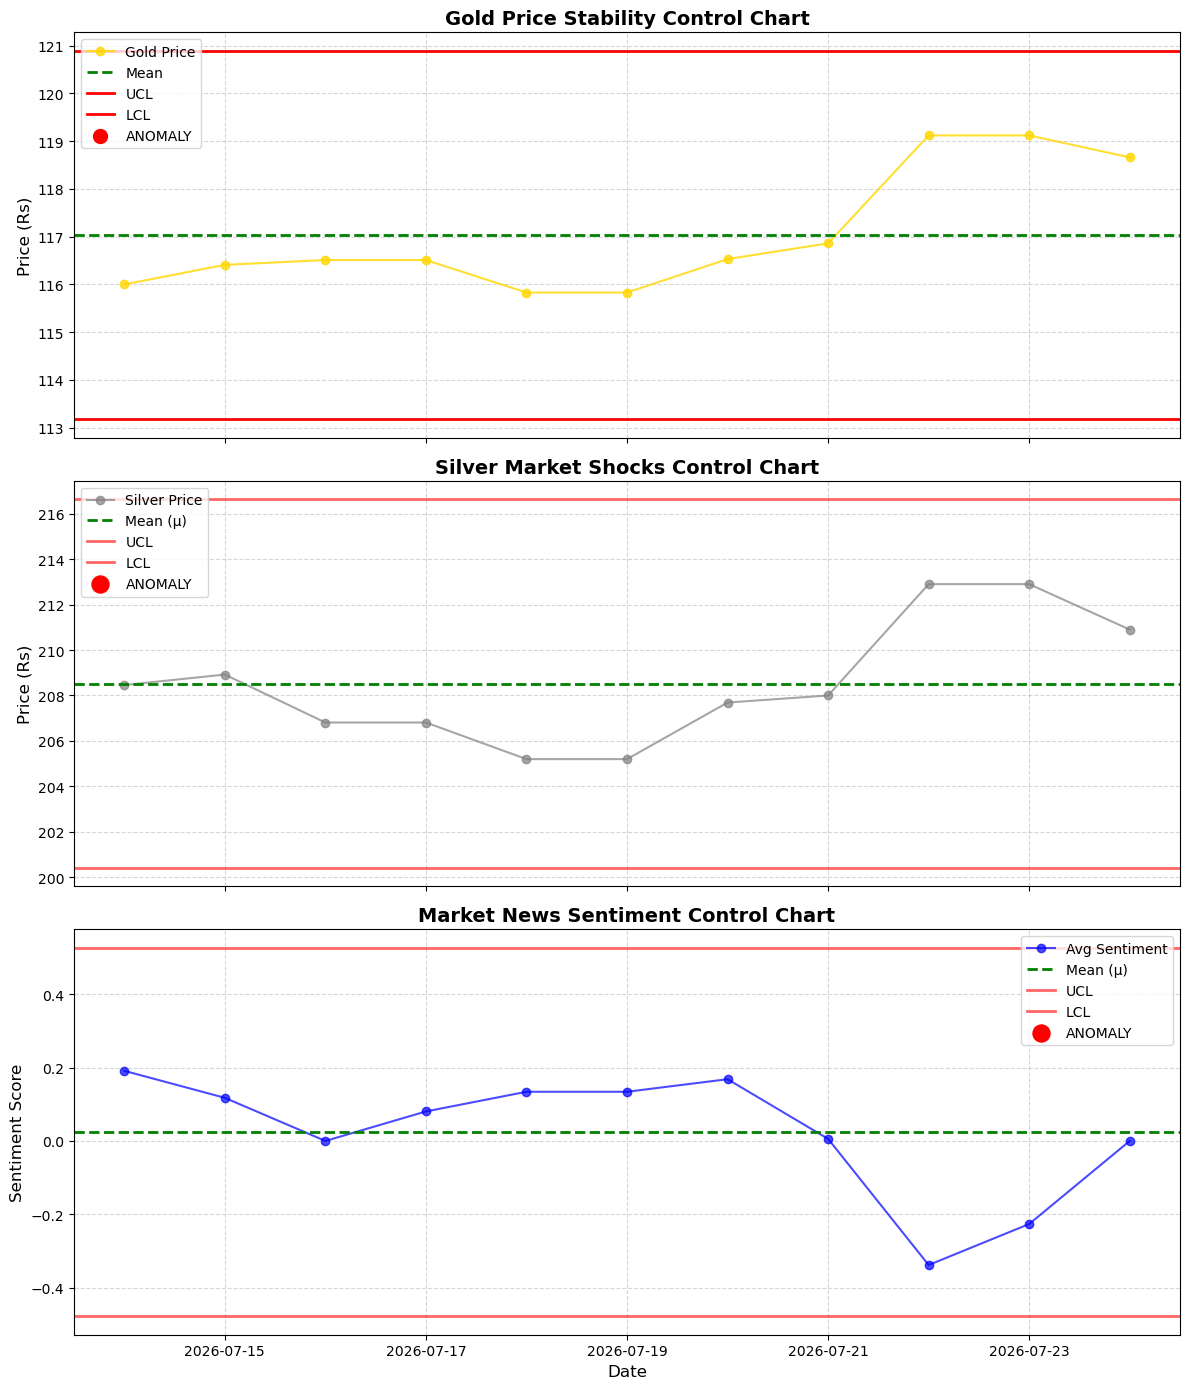
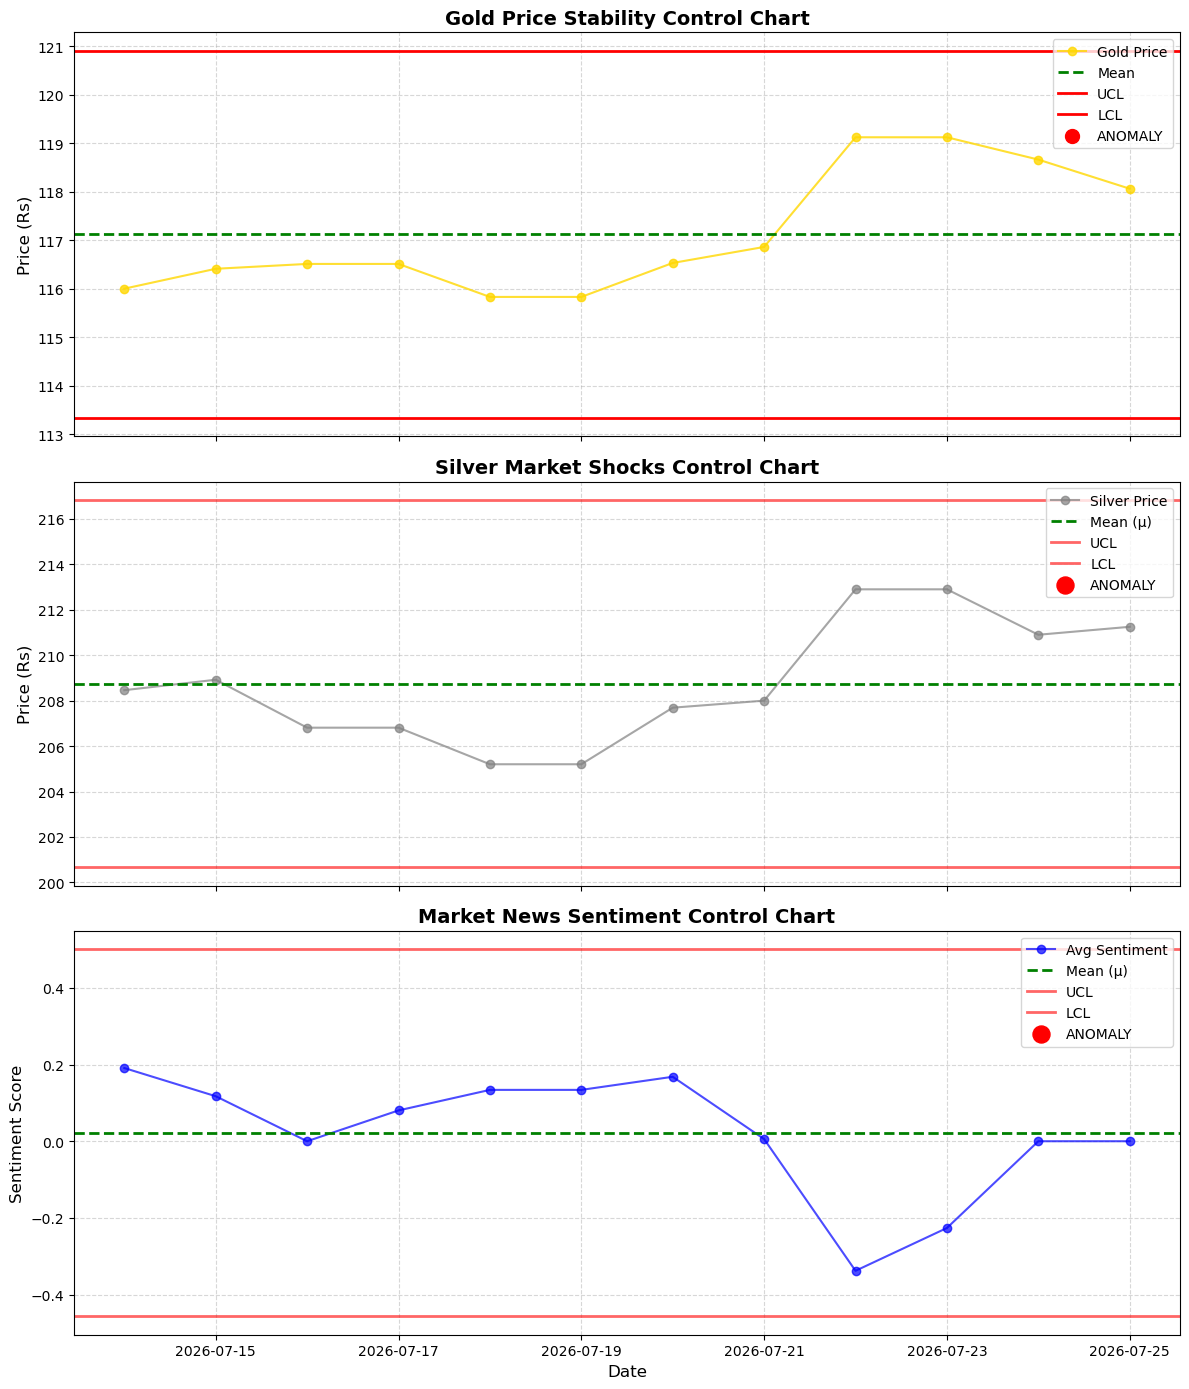
Automated Daily Market Update: 2026-07-25 09:00

diff --git a/index.html b/index.html
@@ -146,7 +146,7 @@
     <body>
         <div class="container">
             <h1>Market Sentiment Tracker (Automated)</h1>
-            <div class="timestamp">Live Data Refreshed: 24 July 2026, 09:00 AM</div>
+            <div class="timestamp">Live Data Refreshed: 25 July 2026, 09:00 AM</div>
             
             <!-- 1. Executive Summary -->
             <h3>Executive Summary</h3>
@@ -170,27 +170,27 @@
                     <tbody>
                         <tr>
                             <td><strong>Gold ETF (Rs)</strong></td>
-                            <td>118.66</td>
-                            <td>117.03</td>
-                            <td>113.18</td>
-                            <td>120.89</td>
+                            <td>118.06</td>
+                            <td>117.12</td>
+                            <td>113.34</td>
+                            <td>120.9</td>
                             <td>🟢 NORMAL</td>
                         </tr>
                         <tr>
                             <td><strong>Silver ETF (Rs)</strong></td>
-                            <td>210.9</td>
-                            <td>208.53</td>
-                            <td>200.42</td>
-                            <td>216.63</td>
+                            <td>211.25</td>
+                            <td>208.75</td>
+                            <td>200.67</td>
+                            <td>216.84</td>
                             <td>🟢 NORMAL</td>
                         </tr>
                         <!-- NEW: Market Sentiment Row -->
                         <tr class="sentiment-row">
                             <td><strong>Banking News Sentiment</strong></td>
                             <td>0.0</td>
-                            <td>0.0242</td>
-                            <td>-0.4777</td>
-                            <td>0.5262</td>
+                            <td>0.0222</td>
+                            <td>-0.4569</td>
+                            <td>0.5012</td>
                             <td>🟢 NORMAL</td>
                         </tr>
                     </tbody>
